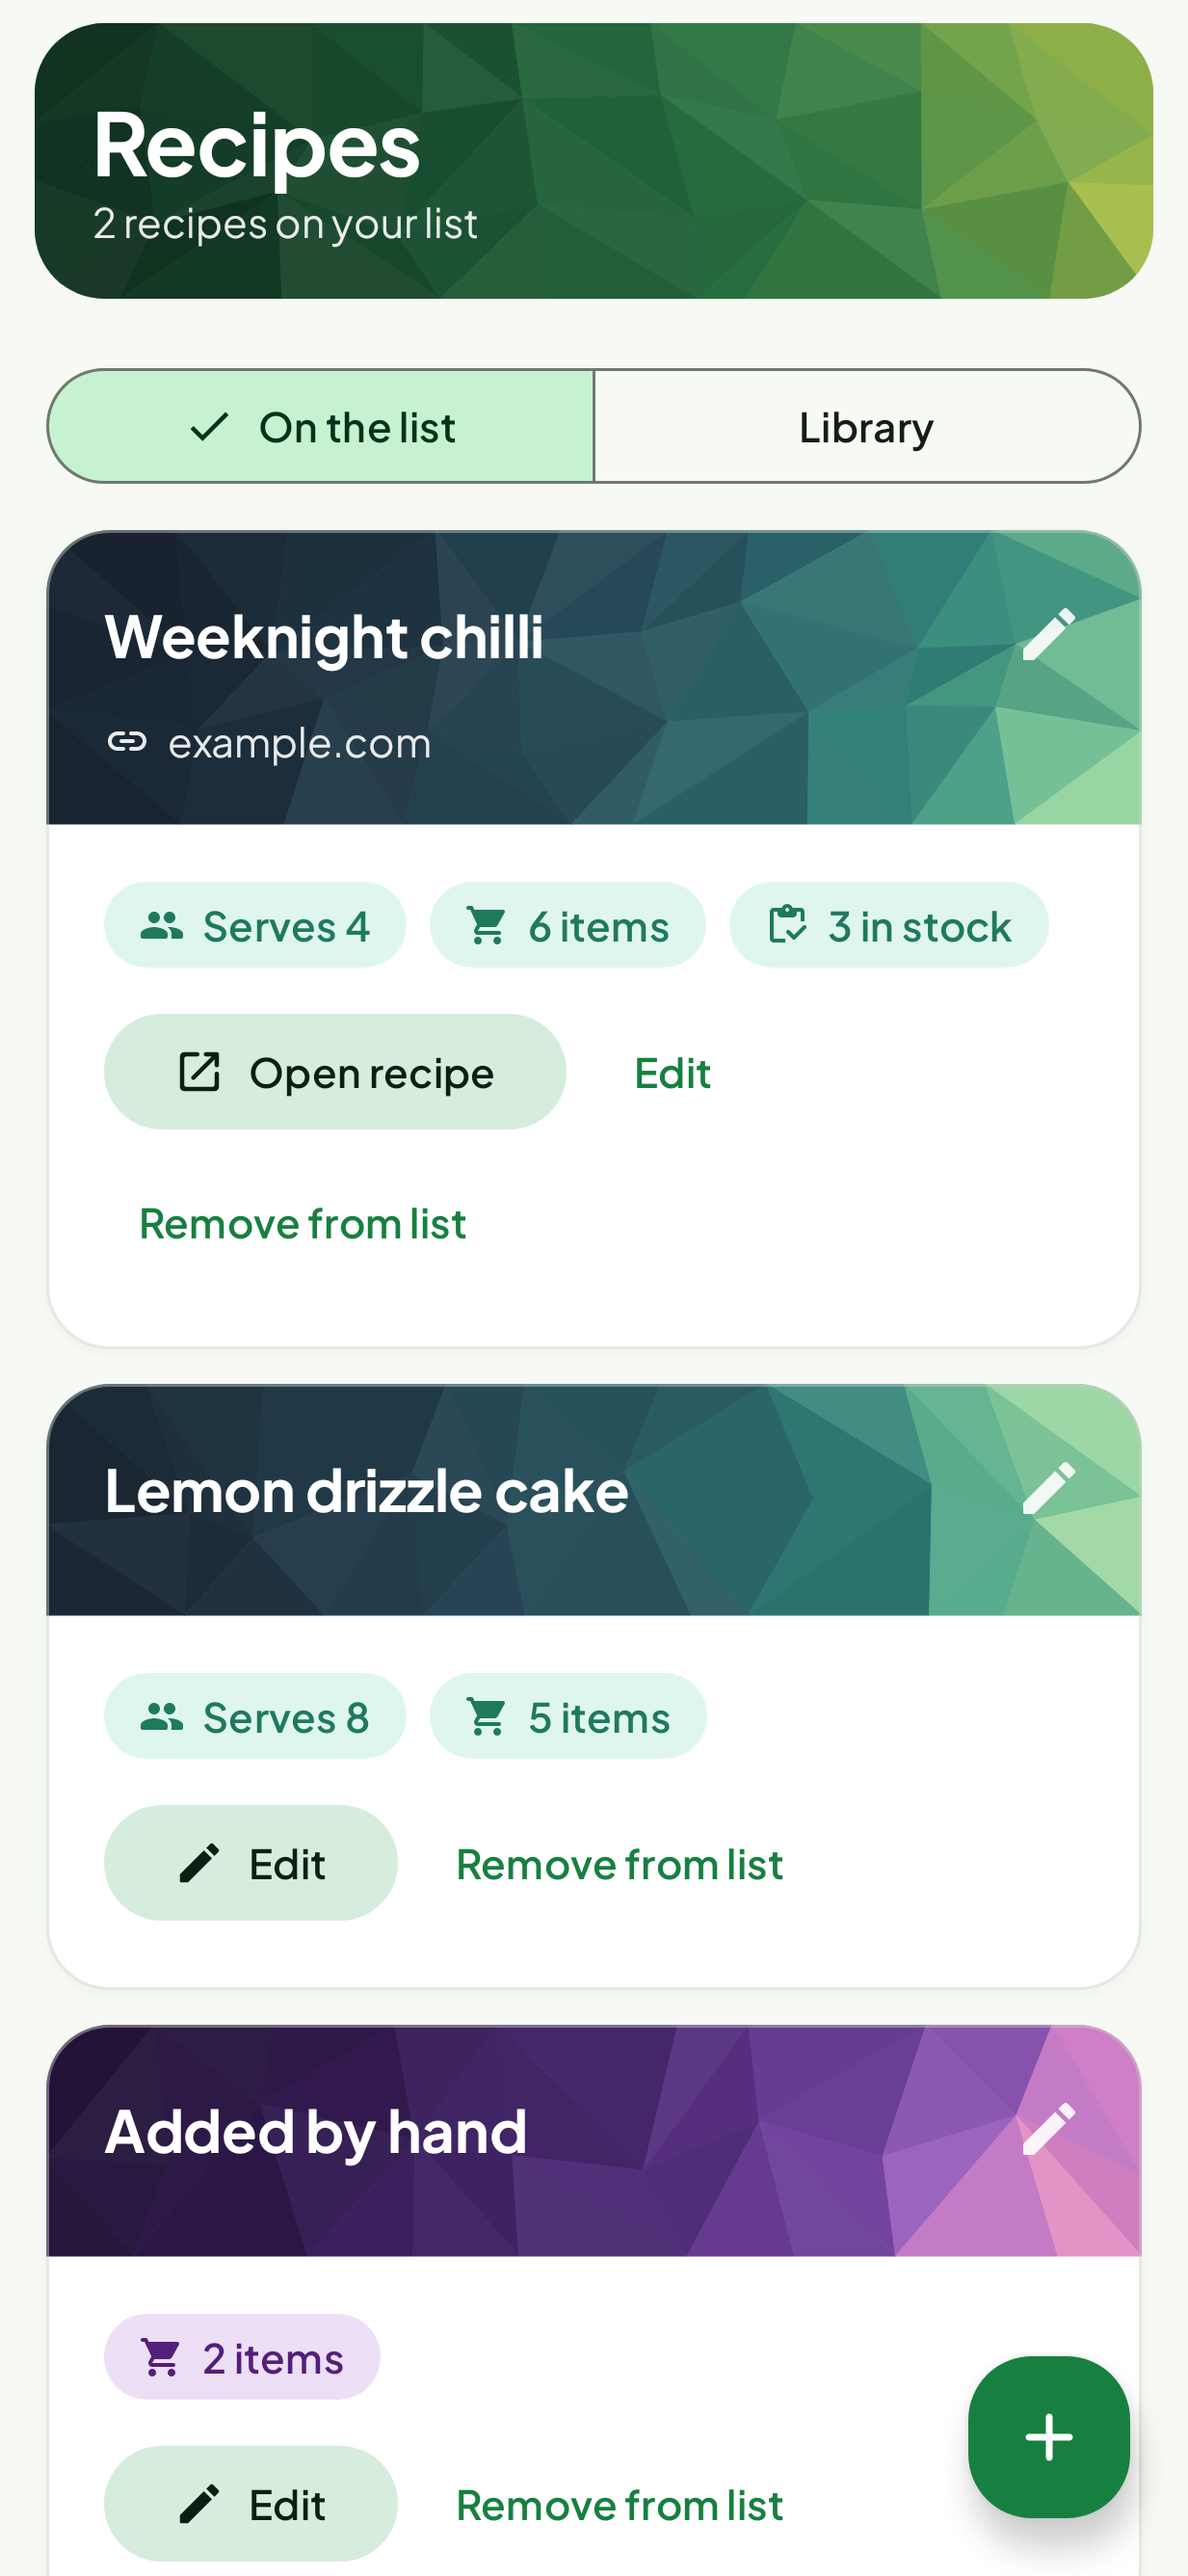
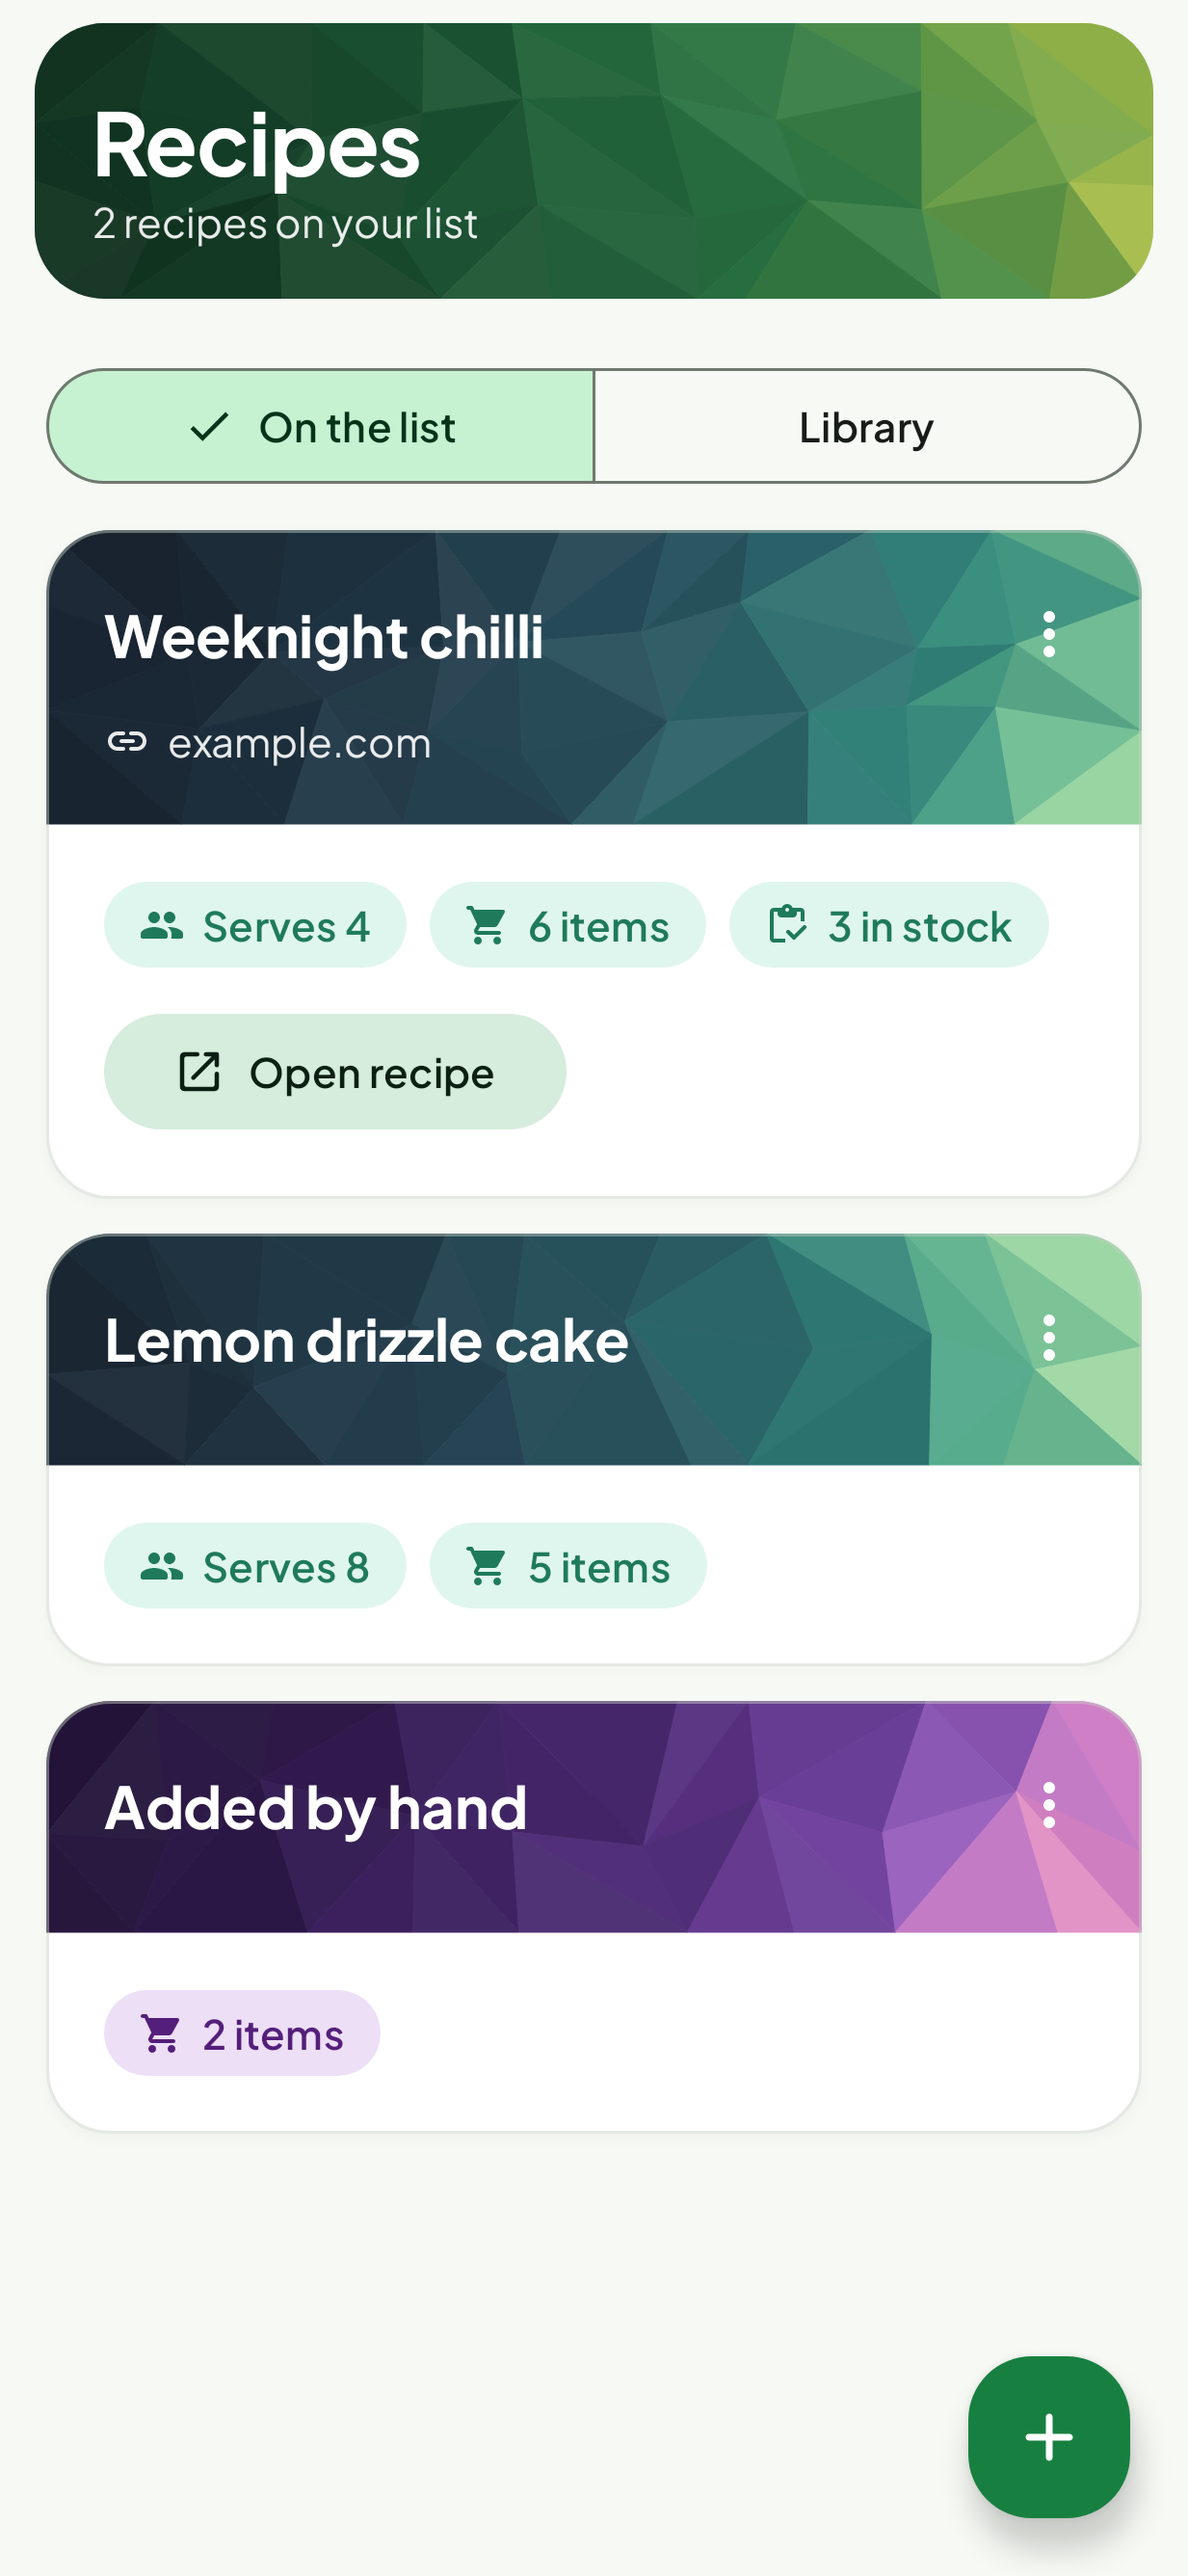
[feature] Recipes card: a ⋮ menu for Rename, Edit and Remove from list
The header pencil becomes a ⋮ menu holding Rename, Edit and Remove from
list, so the card body keeps only the facts and Open recipe; a tap on the
card still opens its ingredients.

Claude-Session: https://claude.ai/code/session_016z2Qp5Lw5mkgJm6Jzuit5a

diff --git a/android/app/src/main/java/com/robert4lyf/hypershop/ui/recipes/RecipesRoute.kt b/android/app/src/main/java/com/robert4lyf/hypershop/ui/recipes/RecipesRoute.kt
@@ -557,8 +557,30 @@ private fun UseCard(
                 ) {
                     Row(verticalAlignment = Alignment.CenterVertically) {
                         Text(use.title, style = MaterialTheme.typography.titleLarge, color = Brand.OnHero, modifier = Modifier.weight(1f))
-                        IconButton(onClick = onRename, modifier = Modifier.testTag("rename-${use.useId}")) {
-                            Icon(Icons.Rounded.Edit, contentDescription = "Rename", tint = Brand.OnHeroSoft)
+                        // Everything that changes the recipe, in one place; a tap on the card shows it.
+                        var menu by remember { mutableStateOf(false) }
+                        Box {
+                            IconButton(onClick = { menu = true }, modifier = Modifier.testTag("more-${use.useId}")) {
+                                Icon(Icons.Rounded.MoreVert, contentDescription = "More", tint = Brand.OnHero)
+                            }
+                            DropdownMenu(expanded = menu, onDismissRequest = { menu = false }) {
+                                DropdownMenuItem(text = { Text("Rename") }, modifier = Modifier.testTag("rename-${use.useId}"), onClick = {
+                                    menu = false
+                                    onRename()
+                                })
+                                DropdownMenuItem(text = { Text("Edit") }, modifier = Modifier.testTag("edit-${use.useId}"), onClick = {
+                                    menu = false
+                                    onEdit()
+                                })
+                                DropdownMenuItem(text = {
+                                    Text(
+                                        "Remove from list",
+                                    )
+                                }, modifier = Modifier.testTag("remove-${use.useId}"), onClick = {
+                                    menu = false
+                                    onRemove()
+                                })
+                            }
                         }
                     }
                     val site = url?.let { siteName(it) }
@@ -588,28 +610,12 @@ private fun UseCard(
                     Fact(Icons.Rounded.ShoppingCart, if (use.itemCount == 1) "1 item" else "${use.itemCount} items", bg, fg)
                     if (use.inStockCount > 0) Fact(Icons.Rounded.Inventory, "${use.inStockCount} in stock", bg, fg)
                 }
-                // One filled button for the main thing, the rest as text; wraps on narrow
-                // phones and large text instead of squeezing the last button.
-                FlowRow(
-                    horizontalArrangement = Arrangement.spacedBy(8.dp),
-                    verticalArrangement = Arrangement.spacedBy(4.dp),
-                    modifier = Modifier.fillMaxWidth(),
-                ) {
-                    if (url != null) {
-                        FilledTonalButton(onClick = { open(url) }, modifier = Modifier.testTag("open-${use.useId}")) {
-                            Icon(Icons.AutoMirrored.Rounded.OpenInNew, contentDescription = null, modifier = Modifier.size(18.dp))
-                            Spacer(Modifier.size(8.dp))
-                            Text("Open recipe")
-                        }
-                        TextButton(onClick = onEdit, modifier = Modifier.testTag("edit-${use.useId}")) { Text("Edit") }
-                    } else {
-                        FilledTonalButton(onClick = onEdit, modifier = Modifier.testTag("edit-${use.useId}")) {
-                            Icon(Icons.Rounded.Edit, contentDescription = null, modifier = Modifier.size(18.dp))
-                            Spacer(Modifier.size(8.dp))
-                            Text("Edit")
-                        }
+                if (url != null) {
+                    FilledTonalButton(onClick = { open(url) }, modifier = Modifier.testTag("open-${use.useId}")) {
+                        Icon(Icons.AutoMirrored.Rounded.OpenInNew, contentDescription = null, modifier = Modifier.size(18.dp))
+                        Spacer(Modifier.size(8.dp))
+                        Text("Open recipe")
                     }
-                    TextButton(onClick = onRemove) { Text("Remove from list") }
                 }
             }
         }

diff --git a/android/app/src/test/java/com/robert4lyf/hypershop/ui/recipes/RecipesScreenTest.kt b/android/app/src/test/java/com/robert4lyf/hypershop/ui/recipes/RecipesScreenTest.kt
@@ -74,12 +74,13 @@ class RecipesScreenTest {
     fun removeAsksFirst() {
         show()
         compose.onNodeWithContentDescription("Serves 4 · 6 items on the list · 3 in stock").assertExists()
-        // Every use can be removed, after a confirmation.
-        compose.onAllNodesWithText("Remove from list").assertCountEquals(3)
+        // Every use can be removed from its menu, after a confirmation.
         compose.onNodeWithContentDescription("Serves 8 · 5 items on the list").assertExists()
-        compose.onAllNodesWithText("Remove from list")[1].performClick()
+        compose.onNodeWithTag("more-2").performClick()
+        compose.onNodeWithTag("remove-2").performClick()
         compose.onNodeWithText("Keep").performClick()
-        compose.onAllNodesWithText("Remove from list")[1].performClick()
+        compose.onNodeWithTag("more-2").performClick()
+        compose.onNodeWithTag("remove-2").performClick()
         compose.onNodeWithText("Remove").performClick()
         assertEquals(listOf("remove 2"), events)
     }
@@ -212,16 +213,16 @@ class RecipesScreenTest {
         var ui by mutableStateOf(USES.copy(uses = USES.uses.take(1)))
         compose.setContent { HyperShopTheme(dynamicColor = false) { RecipesScreen(ui, onRemove = {}) } }
         // Opens on the list: its cards, not the library's.
-        compose.onNodeWithText("Remove from list").assertExists()
+        compose.onNodeWithTag("use-1").assertExists()
         compose.onNodeWithTag("lib-r:9").assertDoesNotExist()
         compose.onNodeWithTag("view-library").performClick()
         compose.onNodeWithTag("lib-r:9").assertExists()
-        compose.onNodeWithText("Remove from list").assertDoesNotExist()
+        compose.onNodeWithTag("use-1").assertDoesNotExist()
         compose.onRoot().captureRoboImage(Shots.path("recipes-library-light.png"))
         // A recipe added to the list brings the list back.
         ui = USES
         compose.waitForIdle()
-        compose.onAllNodesWithText("Remove from list").assertCountEquals(3)
+        compose.onNodeWithTag("use-3").assertExists()
         compose.onNodeWithTag("lib-r:9").assertDoesNotExist()
     }
 
